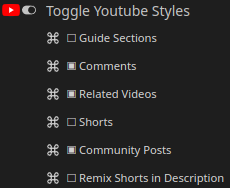
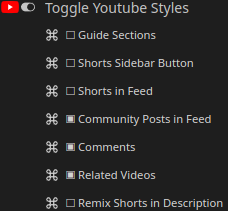
Added option to toggle Shorts button.
Also move some of the other toggles around.

diff --git a/Toggle Youtube Styles/main.user.js b/Toggle Youtube Styles/main.user.js
@@ -4,7 +4,7 @@
 // @namespace   rtonne
 // @match       https://www.youtube.com/*
 // @icon        https://www.google.com/s2/favicons?sz=64&domain=youtube.com
-// @version     1.7
+// @version     1.8
 // @author      Rtonne
 // @description Adds toggles to enable/disable some styles that change Youtube
 // @require     https://update.greasyfork.org/scripts/498119/1395863/setupToggleCommands.js
@@ -30,6 +30,61 @@ const commands = [
     toggleOffFunction: () =>
       GM.addStyle(`
       #sections.ytd-guide-renderer > ytd-guide-section-renderer:nth-child(n+3) {
+        display: none;
+      }
+    `),
+  },
+  {
+    id: "sidebar_shorts",
+    default_value: true,
+    on_text: "🞕 Shorts Sidebar Button",
+    off_text: "🞎 Shorts Sidebar Button",
+    // This hides all the buttons without a href in the first sidebar section (should only be Shorts right now)
+    toggleOnFunction: () =>
+      GM.addStyle(`
+      ytd-guide-section-renderer:first-of-type ytd-guide-entry-renderer:not(:has(> a[href])) {
+        display: unset;
+      }
+    `),
+    toggleOffFunction: () =>
+      GM.addStyle(`
+      ytd-guide-section-renderer:first-of-type ytd-guide-entry-renderer:not(:has(> a[href])) {
+        display: none;
+      }
+    `),
+  },
+  {
+    id: "shorts",
+    default_value: true,
+    on_text: "🞕 Shorts in Feed",
+    off_text: "🞎 Shorts in Feed",
+    toggleOnFunction: () =>
+      GM.addStyle(`
+      ytd-rich-section-renderer:has(> div > [is-shorts]) {
+        display: unset;
+      }
+    `),
+    toggleOffFunction: () =>
+      GM.addStyle(`
+      ytd-rich-section-renderer:has(> div > [is-shorts]) {
+        display: none;
+      }
+    `),
+  },
+  {
+    id: "community",
+    default_value: true,
+    on_text: "🞕 Community Posts in Feed",
+    off_text: "🞎 Community Posts in Feed",
+    toggleOnFunction: () =>
+      GM.addStyle(`
+      ytd-rich-section-renderer:has(> div > :not([is-shorts]):not([thumbnail-style])) {
+        display: unset;
+      }
+    `),
+    toggleOffFunction: () =>
+      GM.addStyle(`
+      ytd-rich-section-renderer:has(> div > :not([is-shorts]):not([thumbnail-style])) {
         display: none;
       }
     `),
@@ -66,42 +121,6 @@ const commands = [
     toggleOffFunction: () =>
       GM.addStyle(`
       #secondary.ytd-watch-flexy > #secondary-inner > #related {
-        display: none;
-      }
-    `),
-  },
-  {
-    id: "shorts",
-    default_value: true,
-    on_text: "🞕 Shorts",
-    off_text: "🞎 Shorts",
-    toggleOnFunction: () =>
-      GM.addStyle(`
-      ytd-rich-section-renderer:has(> div > [is-shorts]) {
-        display: unset;
-      }
-    `),
-    toggleOffFunction: () =>
-      GM.addStyle(`
-      ytd-rich-section-renderer:has(> div > [is-shorts]) {
-        display: none;
-      }
-    `),
-  },
-  {
-    id: "community",
-    default_value: true,
-    on_text: "🞕 Community Posts",
-    off_text: "🞎 Community Posts",
-    toggleOnFunction: () =>
-      GM.addStyle(`
-      ytd-rich-section-renderer:has(> div > :not([is-shorts]):not([thumbnail-style])) {
-        display: unset;
-      }
-    `),
-    toggleOffFunction: () =>
-      GM.addStyle(`
-      ytd-rich-section-renderer:has(> div > :not([is-shorts]):not([thumbnail-style])) {
         display: none;
       }
     `),

diff --git a/Toggle Youtube Styles/README.md b/Toggle Youtube Styles/README.md
@@ -3,10 +3,11 @@ Adds toggles to enable/disable some styles that change Youtube.
 Current available toggles:
 
 - Removes the guide sections below the subscribers list on the left;
-- Removes comments from the videos;
-- Removes related videos on the side of currently playing videos;
+- Removes the "Shorts" button from the sidebar on the left;
 - Removes shorts from home and subscriptions page;
 - Removes community posts from home and subscriptions page;
+- Removes comments from the videos;
+- Removes related videos on the side of currently playing videos;
 - Removes the "Shorts remixing this video" from video descriptions.
 
 ---
